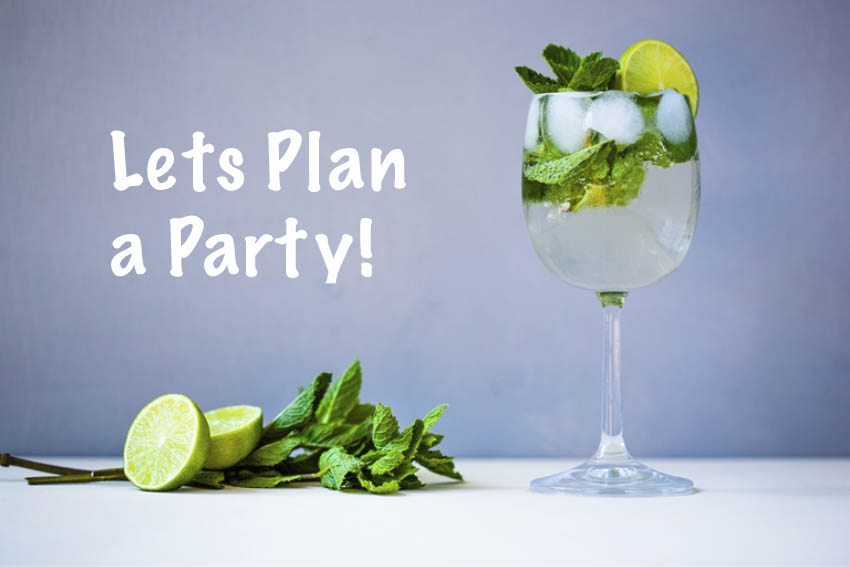
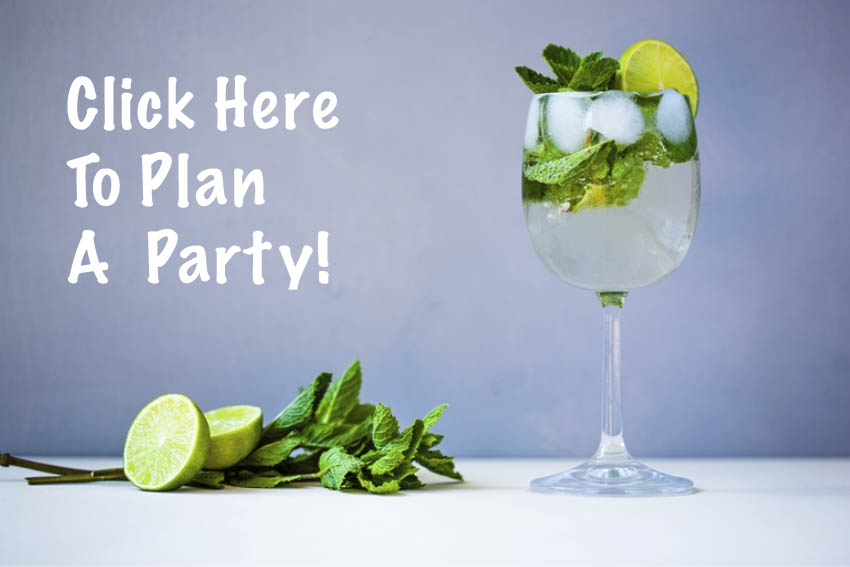
landing updated, signin updated.

Changed region(s): [[0.0612, 0.1199, 0.4894, 0.5097]]

diff --git a/front-end/src/Components/SignInForm.js b/front-end/src/Components/SignInForm.js
@@ -83,7 +83,10 @@ export default function SignInForm() {
   // }
 
   return (
+      <div>
+      <h1 className="brand">EVENT( FUL ) &#127881;</h1>
     <div className="newForm three-d">
+
       <form onSubmit={signIn}>
         <label htmlFor="Email"></label>
         <input
@@ -111,12 +114,12 @@ export default function SignInForm() {
         Sign In with Google
       </button>
       <div className="divider"></div>
-      <div className="divider"></div>
       <Link to="/signup">
         <button type="button" className="Login">
           Sign Up
         </button>
       </Link>
+    </div>
     </div>
   );
 }

diff --git a/front-end/src/Components/SignInForm.css b/front-end/src/Components/SignInForm.css
@@ -3,15 +3,18 @@
     border: 2px solid black;
     border-radius: 10%;
     padding: 20px;
-    background-color: rgb(228, 202, 210, 0.8);
+    background-color: rgba(243, 241, 241, 0.8);
     /* margin: 5%; */
-    width: 50%;
+    width: 40%;
     position: fixed;
     top: 50%;
     left: 50%;
     transform: translate(-50%, -50%);
 }
-
+h1 {
+    text-align: center;
+    padding: 3%;
+}
 .newForm input {
     width: 100%;
     margin: 1%;
@@ -36,6 +39,6 @@ link:link {
 .divider {
     border-bottom: 1px black solid;
     padding: 2%;
-    margin: 5px
+    /* margin: 5px */
 }
 

diff --git a/front-end/src/Pages/Landing.js b/front-end/src/Pages/Landing.js
@@ -17,7 +17,7 @@ export default function Landing() {
     <div className="Landing-Container">
       <div className="Landing">
         <section className="Landing-Item">
-          <h1>EVENT( FUL ) &#127881;</h1>
+          <h1 className="brand">EVENT( FUL ) &#127881;</h1>
           {/* <p>{user && `Hello, ${user.userName}`}</p> */}
           <img
           src={LandingPageImage3}

diff --git a/front-end/src/Pages/Landing.css b/front-end/src/Pages/Landing.css
@@ -37,7 +37,9 @@
 h1 {
   margin-bottom: 2%;
 }
-
+.brand {
+  font-size: 75px;
+}
 .Landing-Item {
   flex-wrap: wrap;
   width: 50%;
